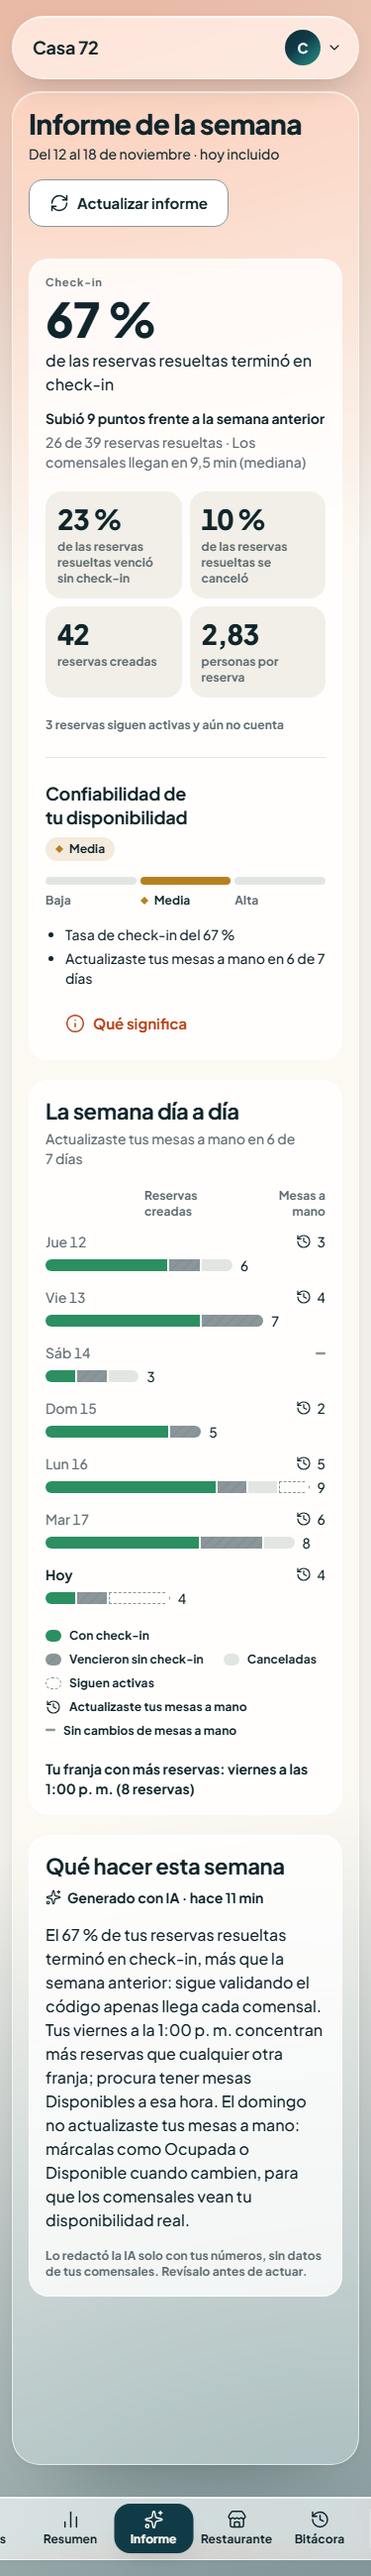
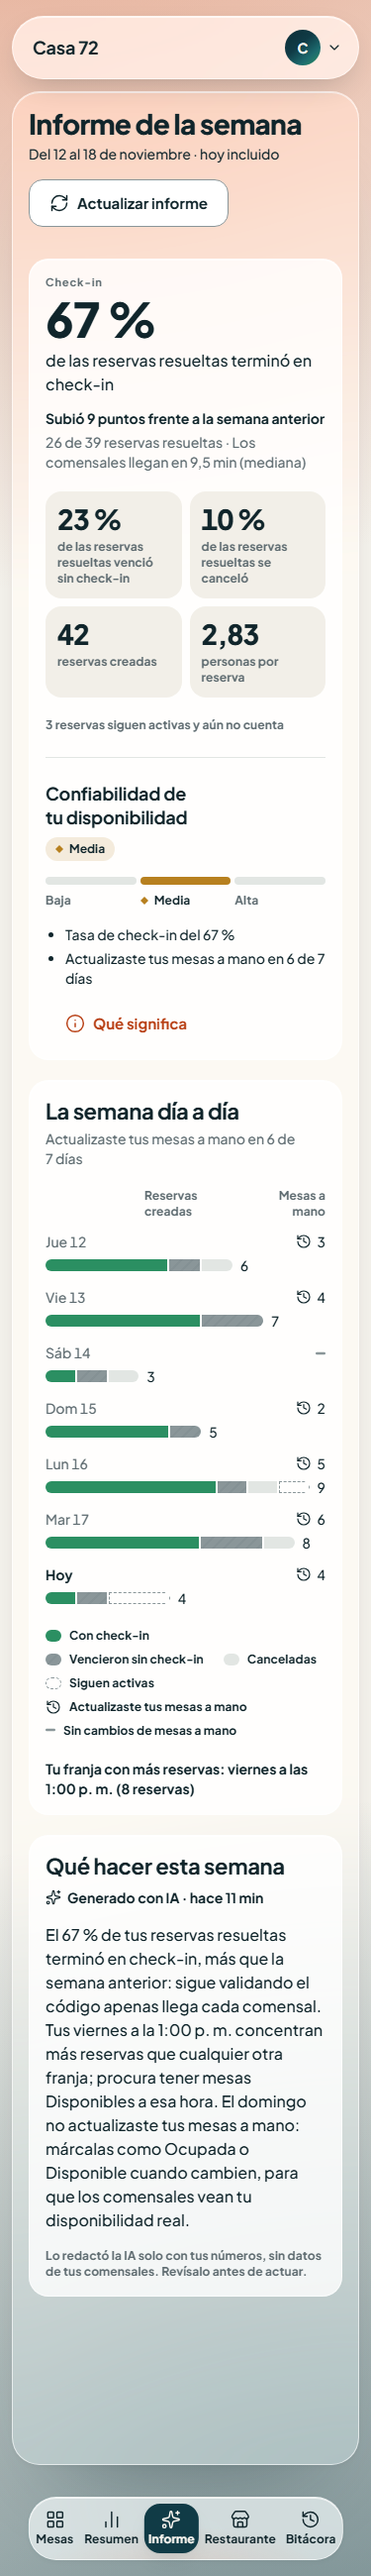
docs(insights): record the dock fix and retake the 375 px screenshots

diff --git a/CLAUDE.md b/CLAUDE.md
@@ -406,7 +406,8 @@ src/
 - **Movimiento:** solo `animate-grow-x` una vez en las barras (apagado con movimiento reducido). Las cifras no se mueven.
 - **Reutiliza de `features/summary`** (Elizabeth), sin modificarlos: `BarTrack`, `ChartTable`, `HelpToggle`, `formatHour`, `formatDecimal`, `formatDayMonth`, `formatLongDay` y `bogotaToday`.
 - **«Canceladas» en el gráfico:** `bg-line` en claro y `dark:bg-fg-2` en oscuro (con `bg-line` desaparecía sobre la tarjeta oscura). Difiere de «Estado de las reservas» de `/resumen`, que sigue con `bg-line`.
-- **Kit (autorizado por Sebastián):** `reliability-high` (Alta, `ok`, punto), `reliability-medium` (Media, `limited`, rombo) y `reliability-low` (Baja, `error`, punto + alerta) en `STATUS_META` con `RELIABILITY_STATUS`; `AiIcon` (`sparkles`); «Informe» en `NAV_ITEMS_RESTAURANT` (no en `NAV_ITEMS_SUSPENDED`).
+- **Kit (autorizado por Sebastián):** `reliability-high` (Alta, `ok`, punto), `reliability-medium` (Media, `limited`, rombo) y `reliability-low` (Baja, `error`, punto + alerta) en `STATUS_META` con `RELIABILITY_STATUS`; `AiIcon` (`sparkles`, también en `/kit`); «Informe» en `NAV_ITEMS_RESTAURANT` (no en `NAV_ITEMS_SUSPENDED`).
+- **Dock con cinco ítems (aprobado por Sebastián):** por debajo de `sm` el dock no muestra el botón de tema (sigue en el menú de usuario) y cada ítem mide lo que su palabra (mínimo 48 px); desde `md` vuelven los 96 px fijos. Medido de 320 a 768 px: todo cabe, con «Mesas» y «Restaurante» completos.
 - **Mock** (con `VITE_USE_MOCKS=true`; los 7 días terminan hoy en Bogotá): `?mockInsights=enough` (por defecto) `| insufficient | empty | template | disabled | long600 | withList`, `?mockError=insights-load` o `insights-refresh`, `?mockRateLimit` (429 al actualizar; `=all` también en la primera carga), `?mockForbidden=<errorCode>` (403) y `?mockLatency=20000` (modelo lento). El mock no entra al build de producción (import dinámico detrás de `VITE_USE_MOCKS`).
 - **Capturas** con el mock (claro/oscuro, 375/1440 px): `docs/design/insights/`.
 

diff --git a/AVISOS.md b/AVISOS.md
@@ -32,7 +32,8 @@
   - Los cambios de mesas a mano se marcan con el ícono de **Bitácora** (`history`), no con un punto: el punto verde ya es «Con check-in».
   - El botón dice «Actualizar informe» (verbo + objeto, manual 14).
   - «Canceladas» usa `dark:bg-fg-2` en oscuro (con `bg-line` desaparecía sobre la tarjeta). `/resumen` sigue con `bg-line` y tiene el mismo problema en oscuro (**Elizabeth:** si quieres, lo igualamos).
-- **Kit (aviso a Sebastián, autorizado por él):** `reliability-high` / `-medium` / `-low` en `STATUS_META` con `RELIABILITY_STATUS`, `AiIcon` (`sparkles`) y «Informe» en `NAV_ITEMS_RESTAURANT`. Documentado en `components/ui/README.md`.
+- **Kit (aviso a Sebastián, autorizado por él):** `reliability-high` / `-medium` / `-low` en `STATUS_META` con `RELIABILITY_STATUS`, `AiIcon` (`sparkles`, también en `/kit`) y «Informe» en `NAV_ITEMS_RESTAURANT`. Documentado en `components/ui/README.md`.
+- **Dock (`NavDock`, aprobado por Sebastián):** con cinco ítems no cabía en un teléfono y «Mesas» quedaba fuera de la pantalla. Por debajo de `sm` ya no muestra el botón de tema (está en el menú de usuario) y cada ítem mide lo que su palabra (mínimo 48 px); desde `md` vuelven los 96 px fijos. Medido a 320, 375, 390, 430, 640 y 768 px en claro y oscuro: nada queda fuera.
 - **Reutiliza de `features/summary` (Elizabeth), sin modificarlos:** `BarTrack`, `ChartTable`, `HelpToggle`, `formatHour`, `formatDecimal`, `formatDayMonth`, `formatLongDay` y `bogotaToday`. Si cambian, revisen `/informe`.
 - **Pendiente con Santiago:** `narrative.recommendations: string[]` (la web ya lo acepta como opcional) y el formato de hora: el texto de plantillas escribe «13:00» y la pantalla «1:00 p. m.».
 - **QA:** las filas IW de `docs/qa/matriz-sprint4.md` se hacen el jueves sobre Azure (necesitan la llave del modelo en Key Vault y Casa 72 con 10 o más reservas resueltas).
